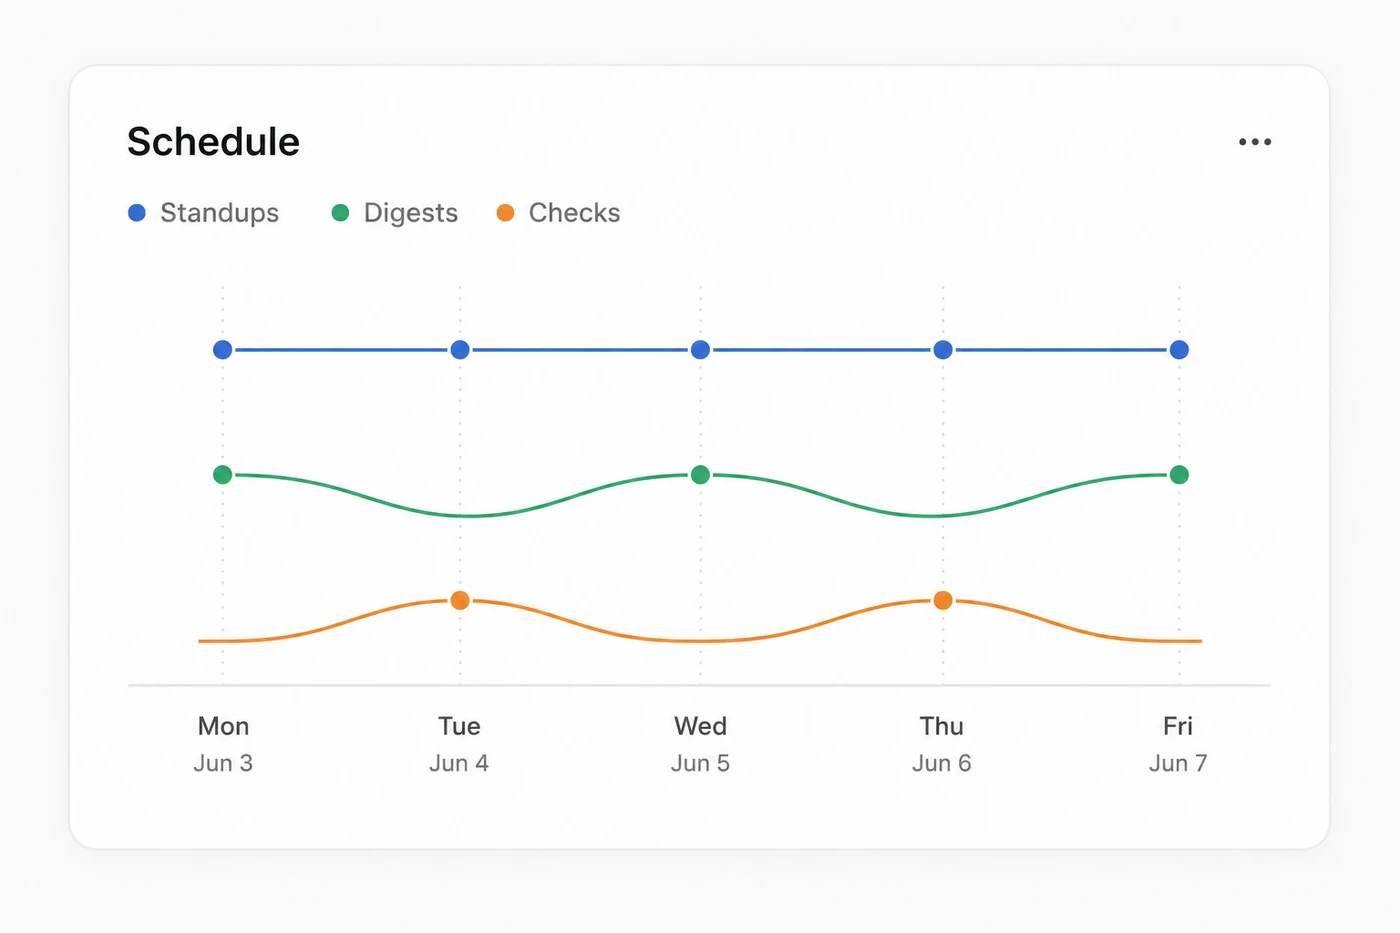
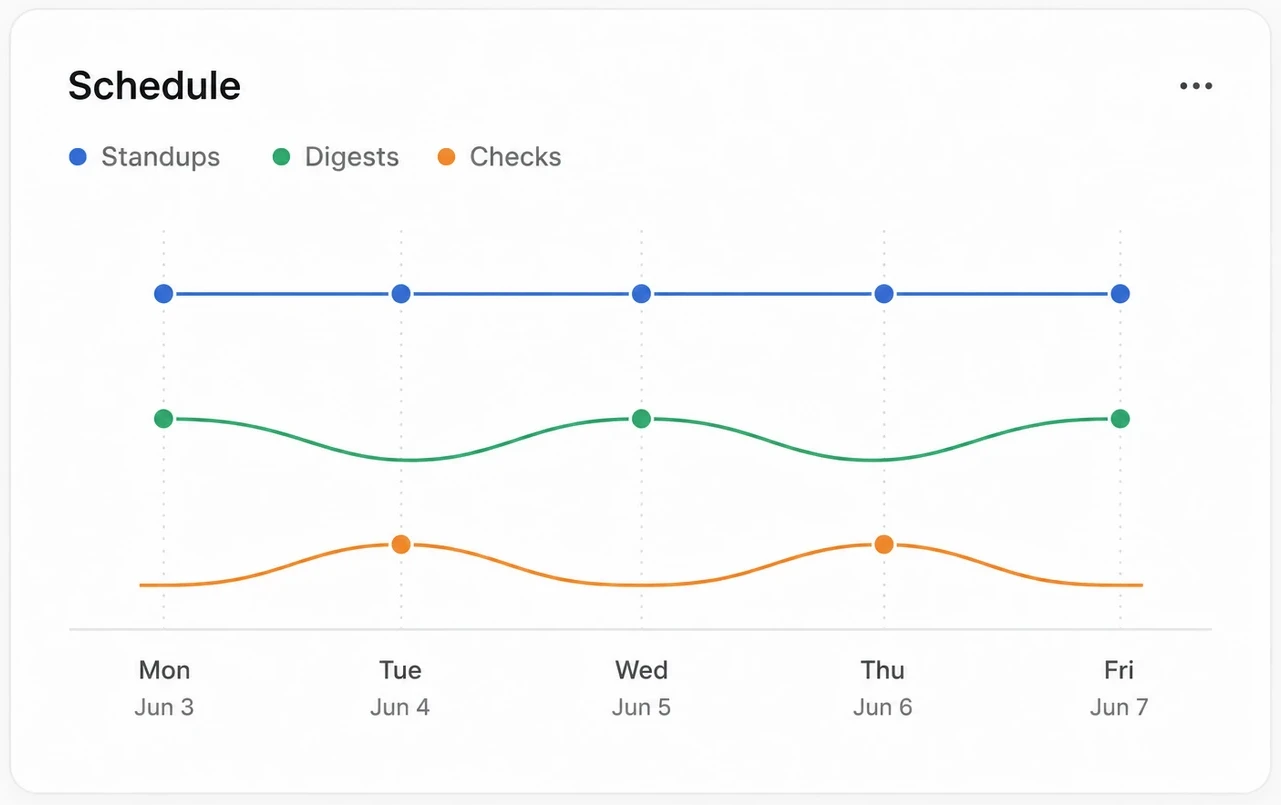
Sharpen the demo thumbnail and tighten Scheduled work.
Swap in the retina Slack screenshot for the video poster, and put the cropped schedule card above shorter copy.

diff --git a/tags-web-ui-new/src/landing/capabilities.tsx b/tags-web-ui-new/src/landing/capabilities.tsx
@@ -34,6 +34,7 @@ type CapabilityItem = {
   description: string;
   logos?: LogoImage[];
   image?: ScreenshotImage;
+  imageFirst?: boolean;
   className: string;
 };
 
@@ -77,19 +78,18 @@ const topItems: CapabilityItem[] = [
 const bottomItems: CapabilityItem[] = [
   {
     title: "Scheduled work.",
-    description:
-      "Run standups, digests, and recurring checks on a schedule the agent maintains.",
+    description: "Standups, digests, and checks on a schedule Tags runs.",
+    imageFirst: true,
     image: {
       src: scheduleImage,
       alt: "Tags schedule showing recurring standups, digests, and checks",
-      width: 1400,
-      height: 933,
-      className: "aspect-[3/2] w-full max-w-[340px]",
-      objectClassName: "object-contain object-center",
-      fade: true,
+      width: 1281,
+      height: 805,
+      className: "aspect-[8/5] w-full max-w-[340px]",
+      objectClassName: "object-cover object-center",
     },
     className:
-      "[&>.title-container]:mb-5 md:[&>.title-container]:mb-9 [&>.image-container]:place-items-center",
+      "justify-normal gap-5 [&>.title-container]:mb-0 [&>.image-container]:place-items-center",
   },
   {
     title: "Approval stays human.",
@@ -177,6 +177,24 @@ type ItemProps = {
 };
 
 const Item = ({ item, isLast, className }: ItemProps) => {
+  const title = (
+    <div className="title-container text-balance">
+      <h3 className="inline font-semibold">{item.title} </h3>
+      <span className="text-muted-foreground">
+        {" "}
+        {keepLastWordsTogether(item.description)}
+      </span>
+    </div>
+  );
+
+  const media = item.logos ? (
+    <LogoGrid logos={item.logos} />
+  ) : item.image ? (
+    <div className="image-container grid grid-cols-1 gap-4">
+      <Screenshot {...item.image} />
+    </div>
+  ) : null;
+
   return (
     <div
       className={cn(
@@ -185,21 +203,17 @@ const Item = ({ item, isLast, className }: ItemProps) => {
         item.className,
       )}
     >
-      <div className="title-container text-balance">
-        <h3 className="inline font-semibold">{item.title} </h3>
-        <span className="text-muted-foreground">
-          {" "}
-          {keepLastWordsTogether(item.description)}
-        </span>
-      </div>
-
-      {item.logos ? (
-        <LogoGrid logos={item.logos} />
-      ) : item.image ? (
-        <div className="image-container grid grid-cols-1 gap-4">
-          <Screenshot {...item.image} />
-        </div>
-      ) : null}
+      {item.imageFirst ? (
+        <>
+          {media}
+          {title}
+        </>
+      ) : (
+        <>
+          {title}
+          {media}
+        </>
+      )}
 
       {!isLast && (
         <>